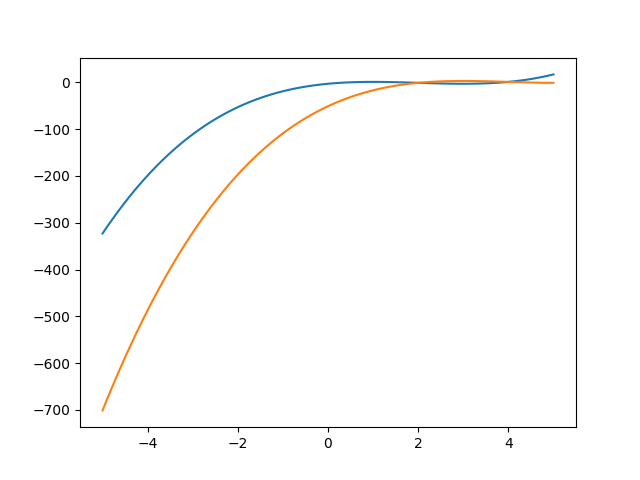
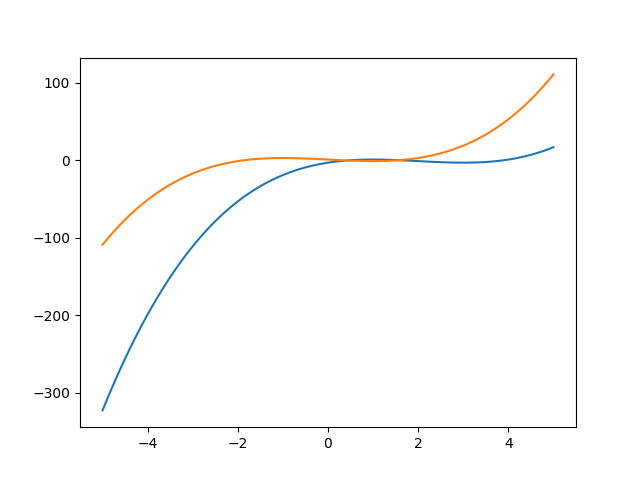
3章q05～q08を追加

diff --git a/ykato/chapter03/q06.py b/ykato/chapter03/q06.py
@@ -11,7 +11,7 @@ beta = 2
 
 x = np.linspace(-5, 5, 100)
 y1 = a*x **3 + b*x **2 + c*x + d
-y2 = a*(x+alpha) **3 + b*(x+alpha) **2 + c*(x+alpha) + (d+beta)
+y2 = a*(x-alpha) **3 + b*(x-alpha) **2 + c*(x-alpha) + (d+beta)
 
 plt.plot(x, y1)
 plt.plot(x, y2)
